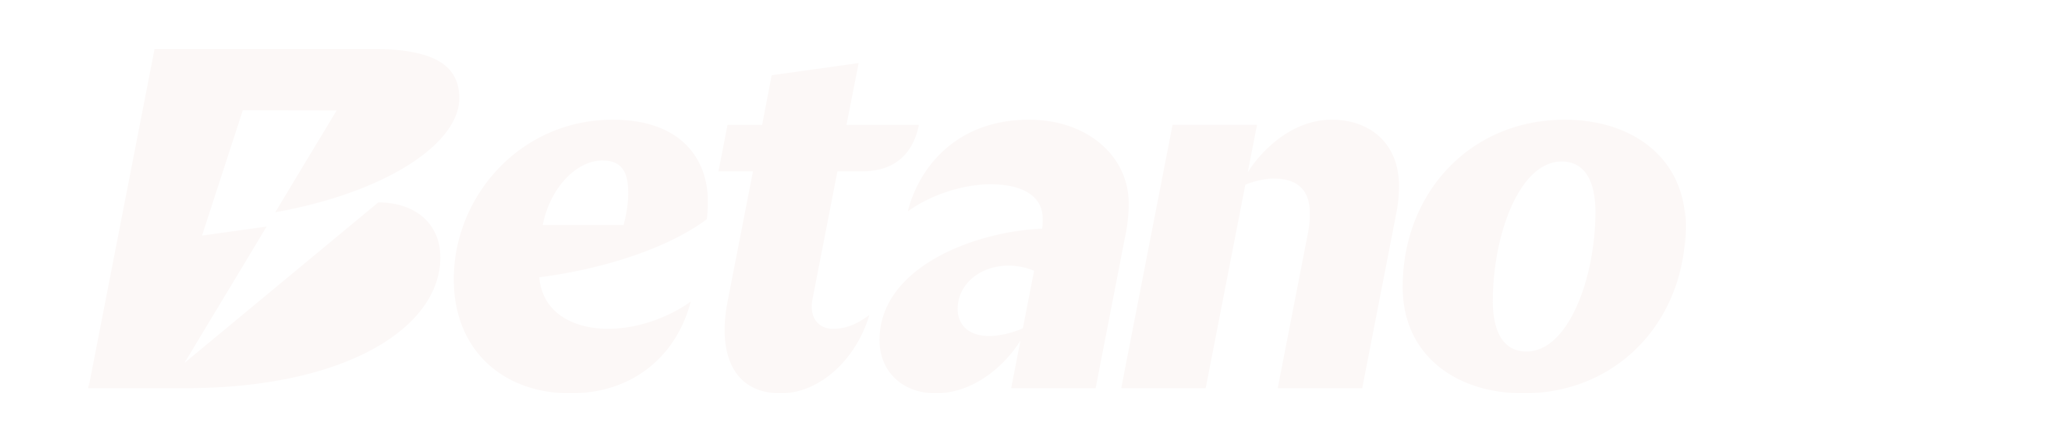
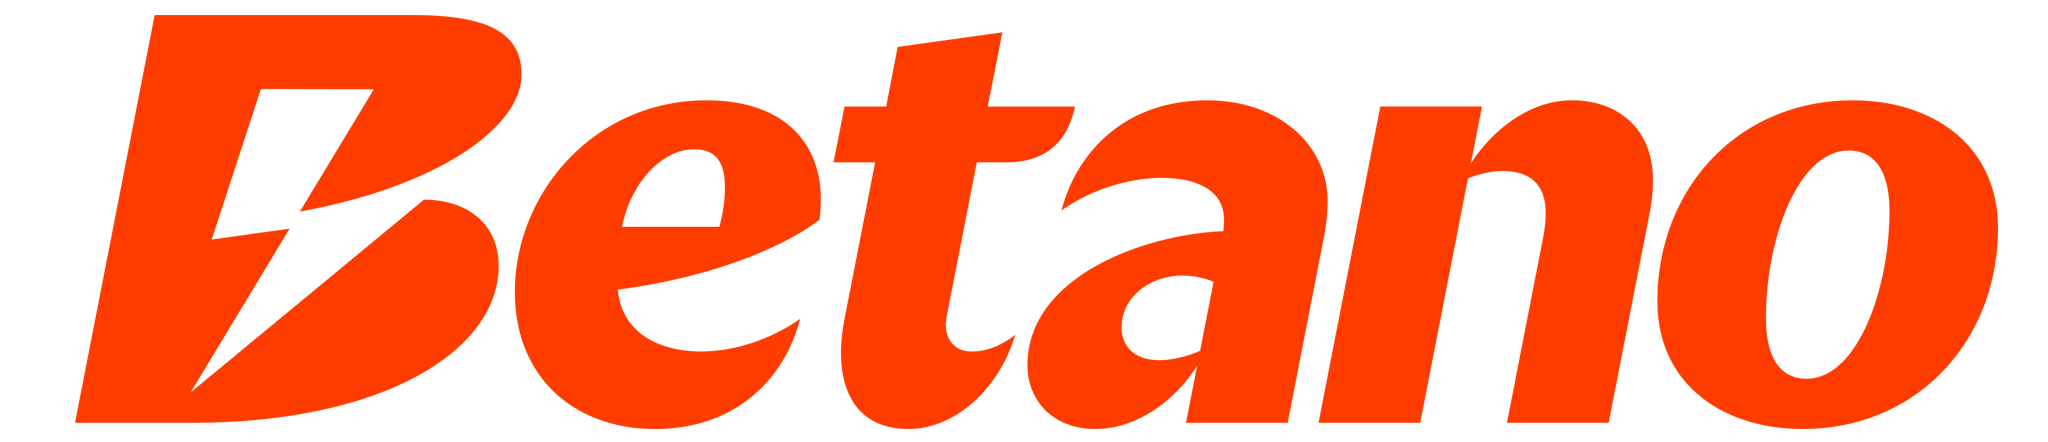
okokokok

diff --git a/simulador.html b/simulador.html
@@ -601,6 +601,8 @@
         max-width: 100%;
       }
     }
+    
+    
 
   </style>
 
@@ -622,6 +624,7 @@
         <option value="Copa das Estrelas|https://betstat.site/resultados/Copa%20das%20estrelas|https://betstat.site/proximos/Copa%20das%20Estrelas|Copa das Estrelas">Copa das Estrelas</option>
         <option value="Brasileirão Betano|https://betstat.site/resultados/Brasileir%C3%A3o%20Betano|https://betstat.site/proximos/Brasileir%C3%A3o%20Betano|Brasileirão Betano">Brasileirão Betano</option>
       </select>
+<img src="img/betano (2).png" alt="" style="width: 180px; height: auto;">
       <div class="bankroll-controls">
         <input type="number" id="bankroll" placeholder="Banca" min="0" value="100" onchange="updateBankroll()">
         <button class="add-bankroll" onclick="addBankroll()">+</button>
